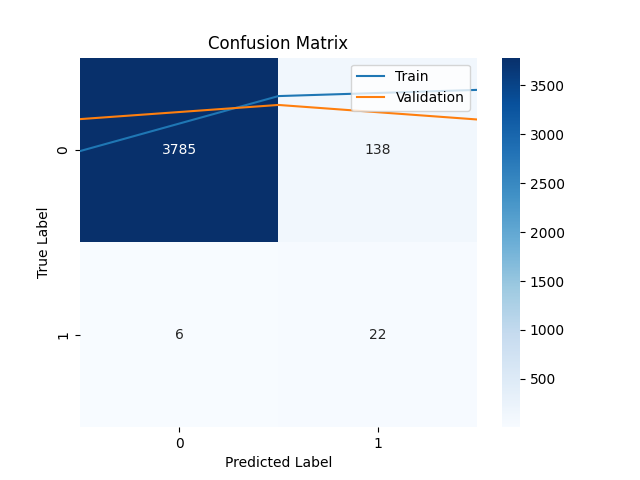
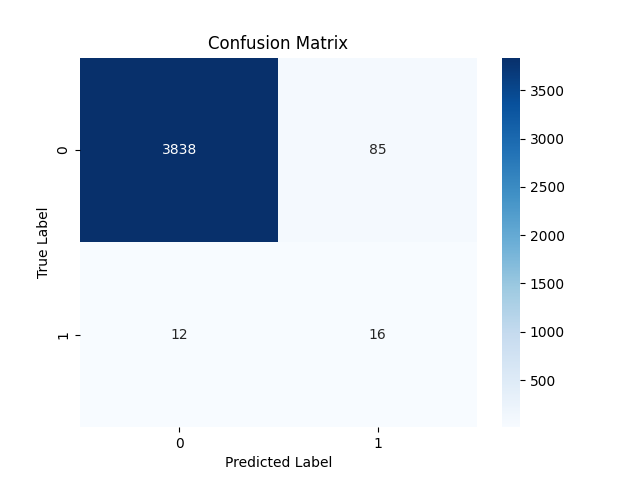
wip

diff --git a/binary_classification.py b/binary_classification.py
@@ -9,8 +9,8 @@ from sklearn.metrics import classification_report, confusion_matrix
 import seaborn as sns
 # from sklearn.ensemble import RandomForestClassifier
 
-NO_EPOCHS = 10
-BATCH_SIZE = 32
+NO_EPOCHS = 20
+BATCH_SIZE = 16
 LOSS = 'binary_crossentropy'
 LEARNING_RATE = 0.001
 METRICS = ['accuracy']
@@ -18,6 +18,7 @@ ACTIVATION = ['relu', 'sigmoid']
 VERBOSE = 1
 
 def generate_confusion_matrix(y_true, y_pred, filename):
+    plt.clf()
     cm = confusion_matrix(y_true, y_pred)
     sns.heatmap(cm, annot=True, fmt="d", cmap="Blues")
     plt.xlabel("Predicted Label")
@@ -28,8 +29,10 @@ def generate_confusion_matrix(y_true, y_pred, filename):
 
 def create_model(input_dim):
     model = Sequential()
-    model.add(Dense(32, input_dim=input_dim, activation=ACTIVATION[0]))  # Input layer
-    model.add(Dense(64, activation=ACTIVATION[0]))  # Hidden layer
+    model.add(Dense(16, input_dim=input_dim, activation=ACTIVATION[0]))  # Input layer
+    model.add(Dense(32, activation=ACTIVATION[0]))  # Hidden layer
+    model.add(Dense(16, activation=ACTIVATION[0]))  # Hidden layer
+    model.add(Dense(16, activation=ACTIVATION[0]))  # Hidden layer
     model.add(Dense(1, activation=ACTIVATION[1]))  # Output layer
 
     model.compile(loss=LOSS, optimizer=Adam(learning_rate=LEARNING_RATE), metrics=METRICS)
